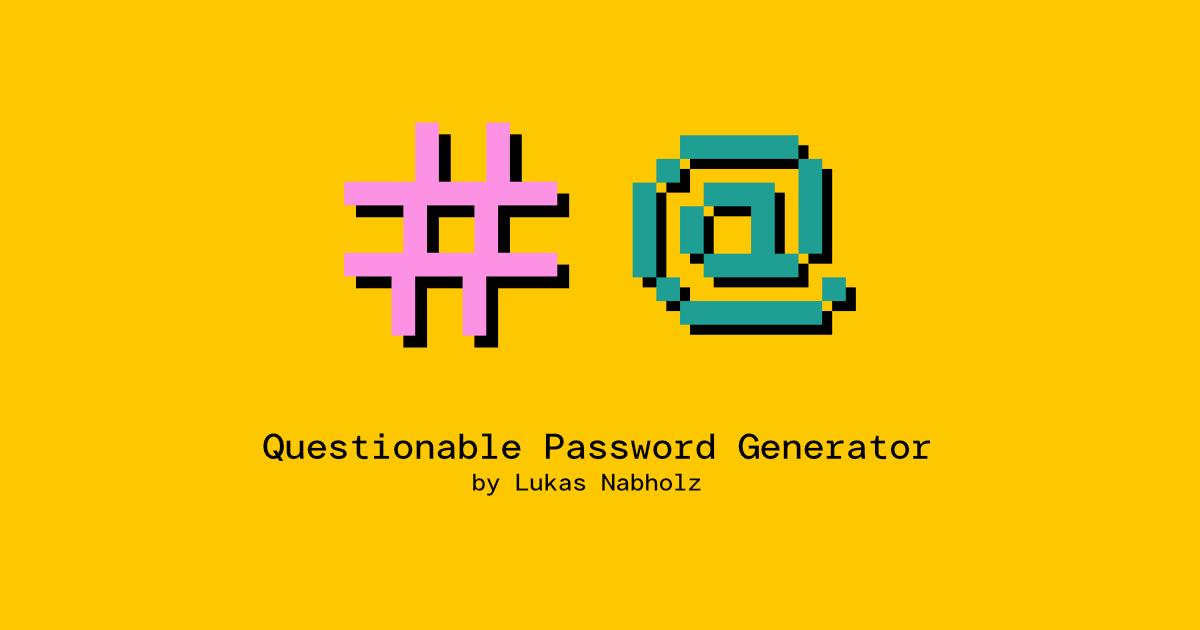
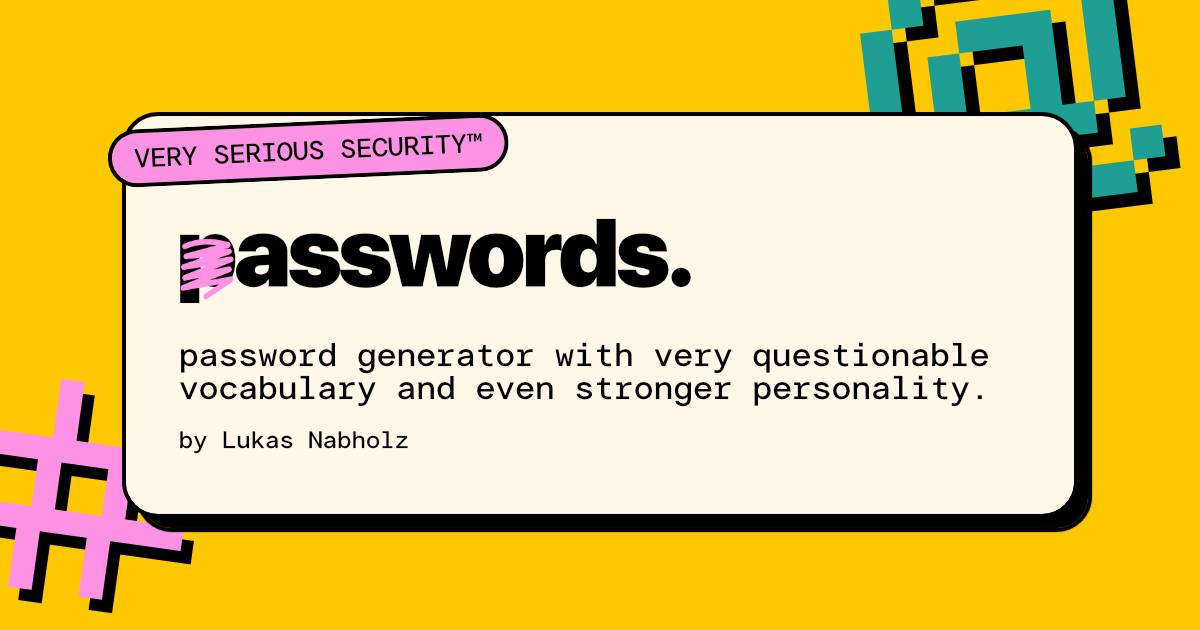
new wordmark and preview image

diff --git a/src/routes/+page.svelte b/src/routes/+page.svelte
@@ -3,6 +3,8 @@
 	import SecurityBadge from '#lib/components/SecurityBadge.svelte';
 	import PasswordGenerator from '#lib/components/PasswordGenerator.svelte';
 	import MessageBubble from '#lib/components/MessageBubble.svelte';
+
+	import wordmark from '#lib/content/wordmark.svg?url';
 </script>
 
 <div class="password-app">
@@ -15,26 +17,14 @@
 			<header>
 				<div class="title-row">
 					<h1 id="title" aria-label="Passwords">
-						<span class="scribbled-letter"
-							>p<svg
-								class="letter-scribble"
-								viewBox="0 0 100 140"
-								preserveAspectRatio="none"
-								aria-hidden="true"
-								focusable="false"
-							>
-								<path
-									d="
-										M12 40 Q45 28 86 38
-										L14 54 L88 47
-										L10 69 L91 58
-										L12 84 L88 72
-										L9 98 L91 86
-										L48 110
-									"
-								/>
-							</svg></span
-						>asswords.
+						<img
+							class="wordmark"
+							src={wordmark}
+							alt=""
+							aria-hidden="true"
+							width="514"
+							height="88"
+						/>
 					</h1>
 				</div>
 
@@ -99,35 +89,16 @@
 		margin-bottom: var(--spacing-medium);
 	}
 
-	h1 {
-		font-family: var(--font-heading);
-		font-size: clamp(3rem, 10vw, 5rem);
-		font-weight: 900;
-		line-height: 0.9;
-		letter-spacing: -0.075em;
+	.title-row h1 {
+		width: 100%;
+		min-width: 0;
 	}
 
-	.scribbled-letter {
-		position: relative;
-		display: inline-block;
-		isolation: isolate;
-	}
-
-	.letter-scribble {
-		position: absolute;
-		top: -0.02em;
-		left: -0.06em;
-		z-index: 1;
-		width: calc(100% + 0.12em);
-		max-width: none;
-		height: 1.12em;
-		overflow: visible;
-		fill: none;
-		stroke: var(--color-secondary);
-		stroke-width: 7;
-		stroke-linecap: round;
-		stroke-linejoin: round;
-		pointer-events: none;
+	.wordmark {
+		display: block;
+		width: clamp(17.5rem, 58.4vw, 29.2rem);
+		max-width: 100%;
+		height: auto;
 	}
 
 	.subtitle {

diff --git a/src/lib/components/PasswordGenerator.svelte b/src/lib/components/PasswordGenerator.svelte
@@ -8,12 +8,6 @@
 	let password = $state('');
 	let level = $state<PasswordLevel>(1);
 
-	const tierJokes: Record<PasswordLevel, string> = {
-		1: 'SECURITY BY VIBES',
-		2: 'NOW WITH EXTRA PARANOIA',
-		3: 'YOUR KEYBOARD NEEDS A BREAK'
-	};
-
 	let copied = $state(false);
 	let generatePressed = $state(false);
 	let copyPressed = $state(false);
@@ -145,11 +139,8 @@
 	<div class="password-display" aria-live="polite" aria-atomic="true">
 		<div class="password-level">
 			<div class="version">
-				<span>{tierJokes[level]}</span>
-				<br />
-				<span>GEN v{version}</span>
+				GEN v{version}
 			</div>
-
 			<div class="tiny">
 				<button
 					type="button"
@@ -271,8 +262,8 @@
 
 	.segment {
 		display: grid;
-		width: 2rem;
-		height: 2rem;
+		width: 3rem;
+		height: 1.8rem;
 		place-items: center;
 		background: var(--color-surface);
 		color: transparent;
